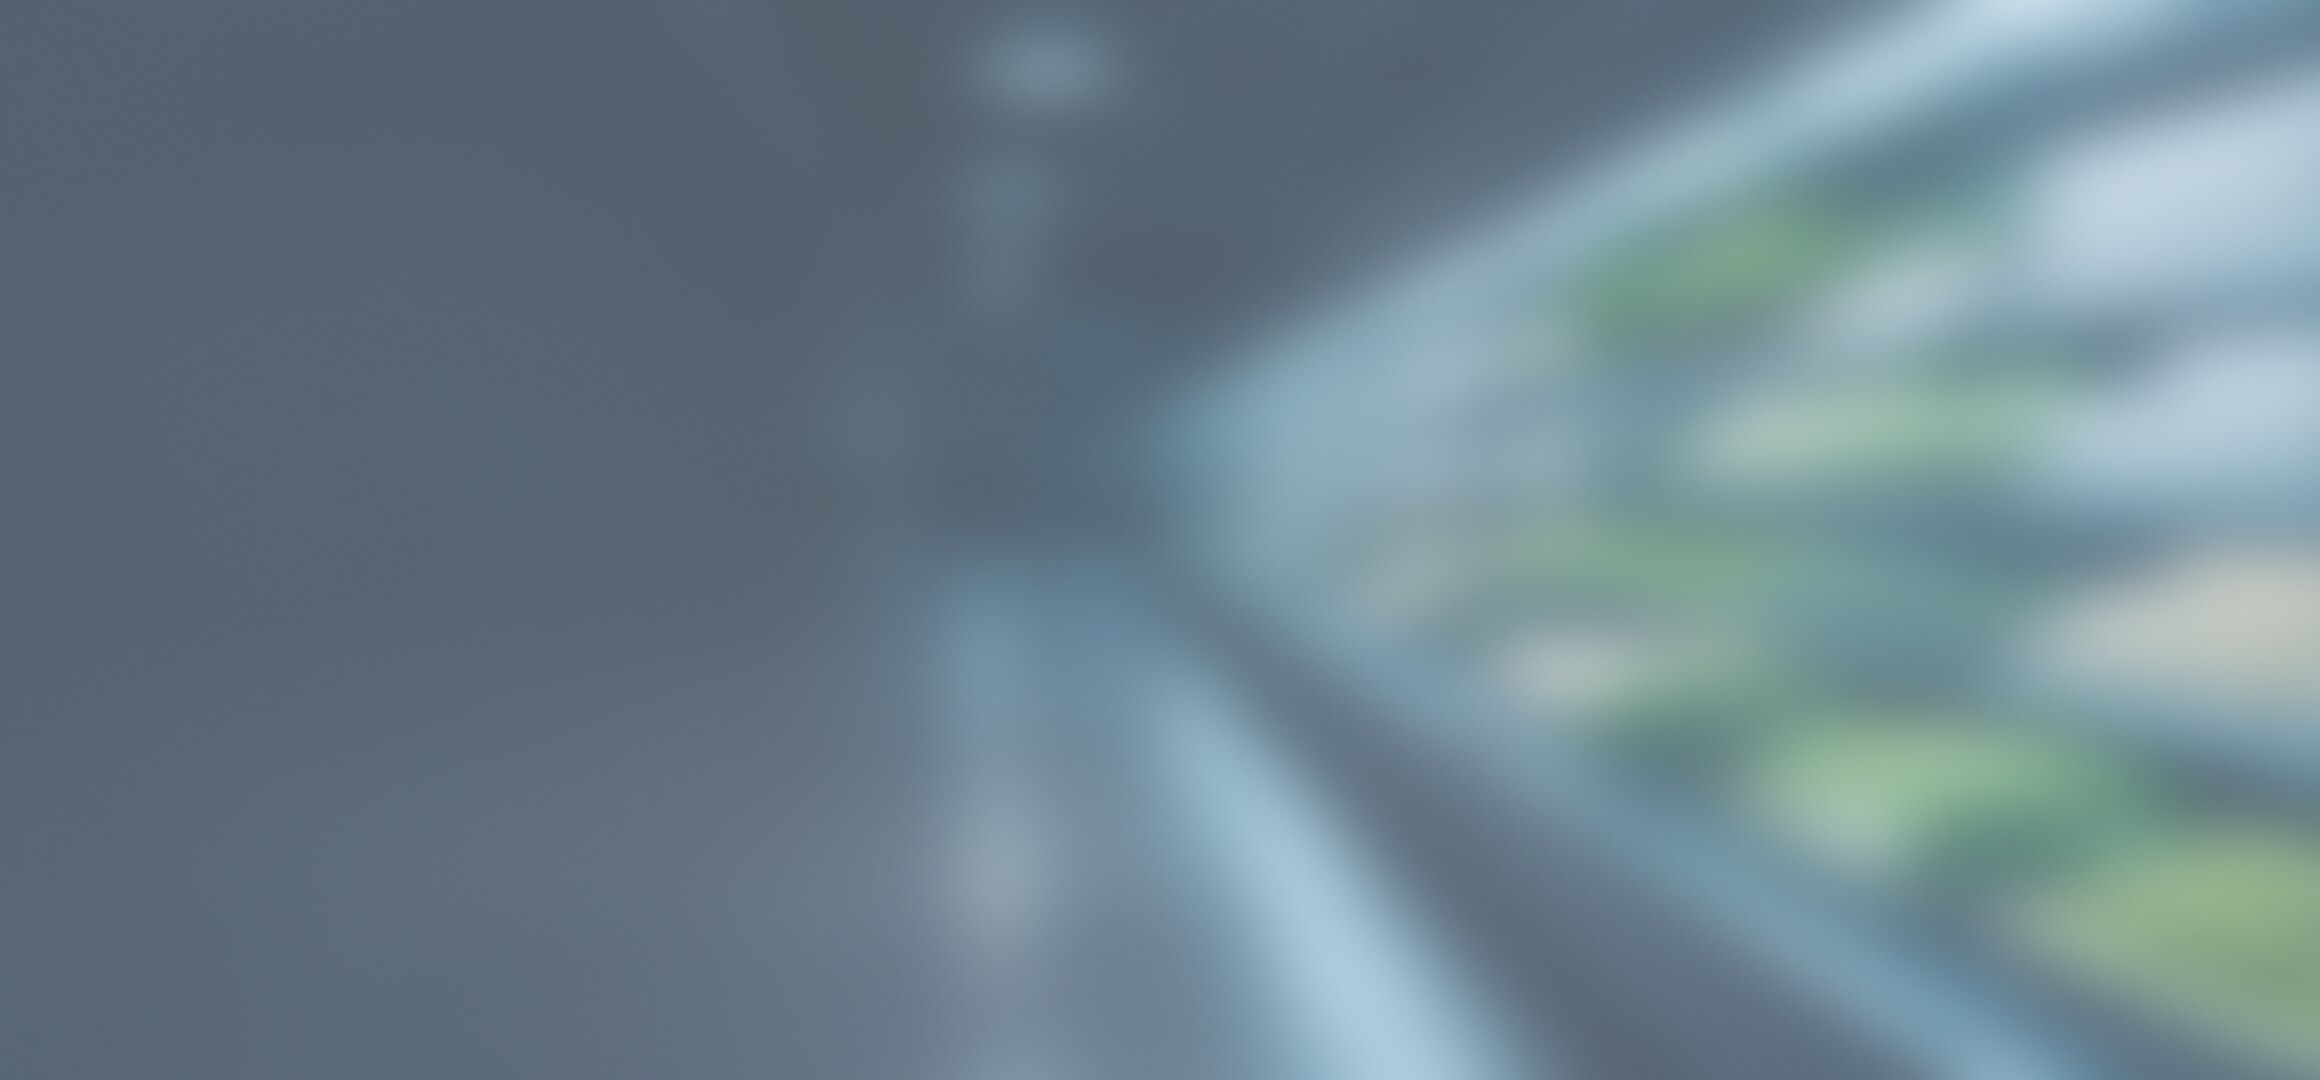
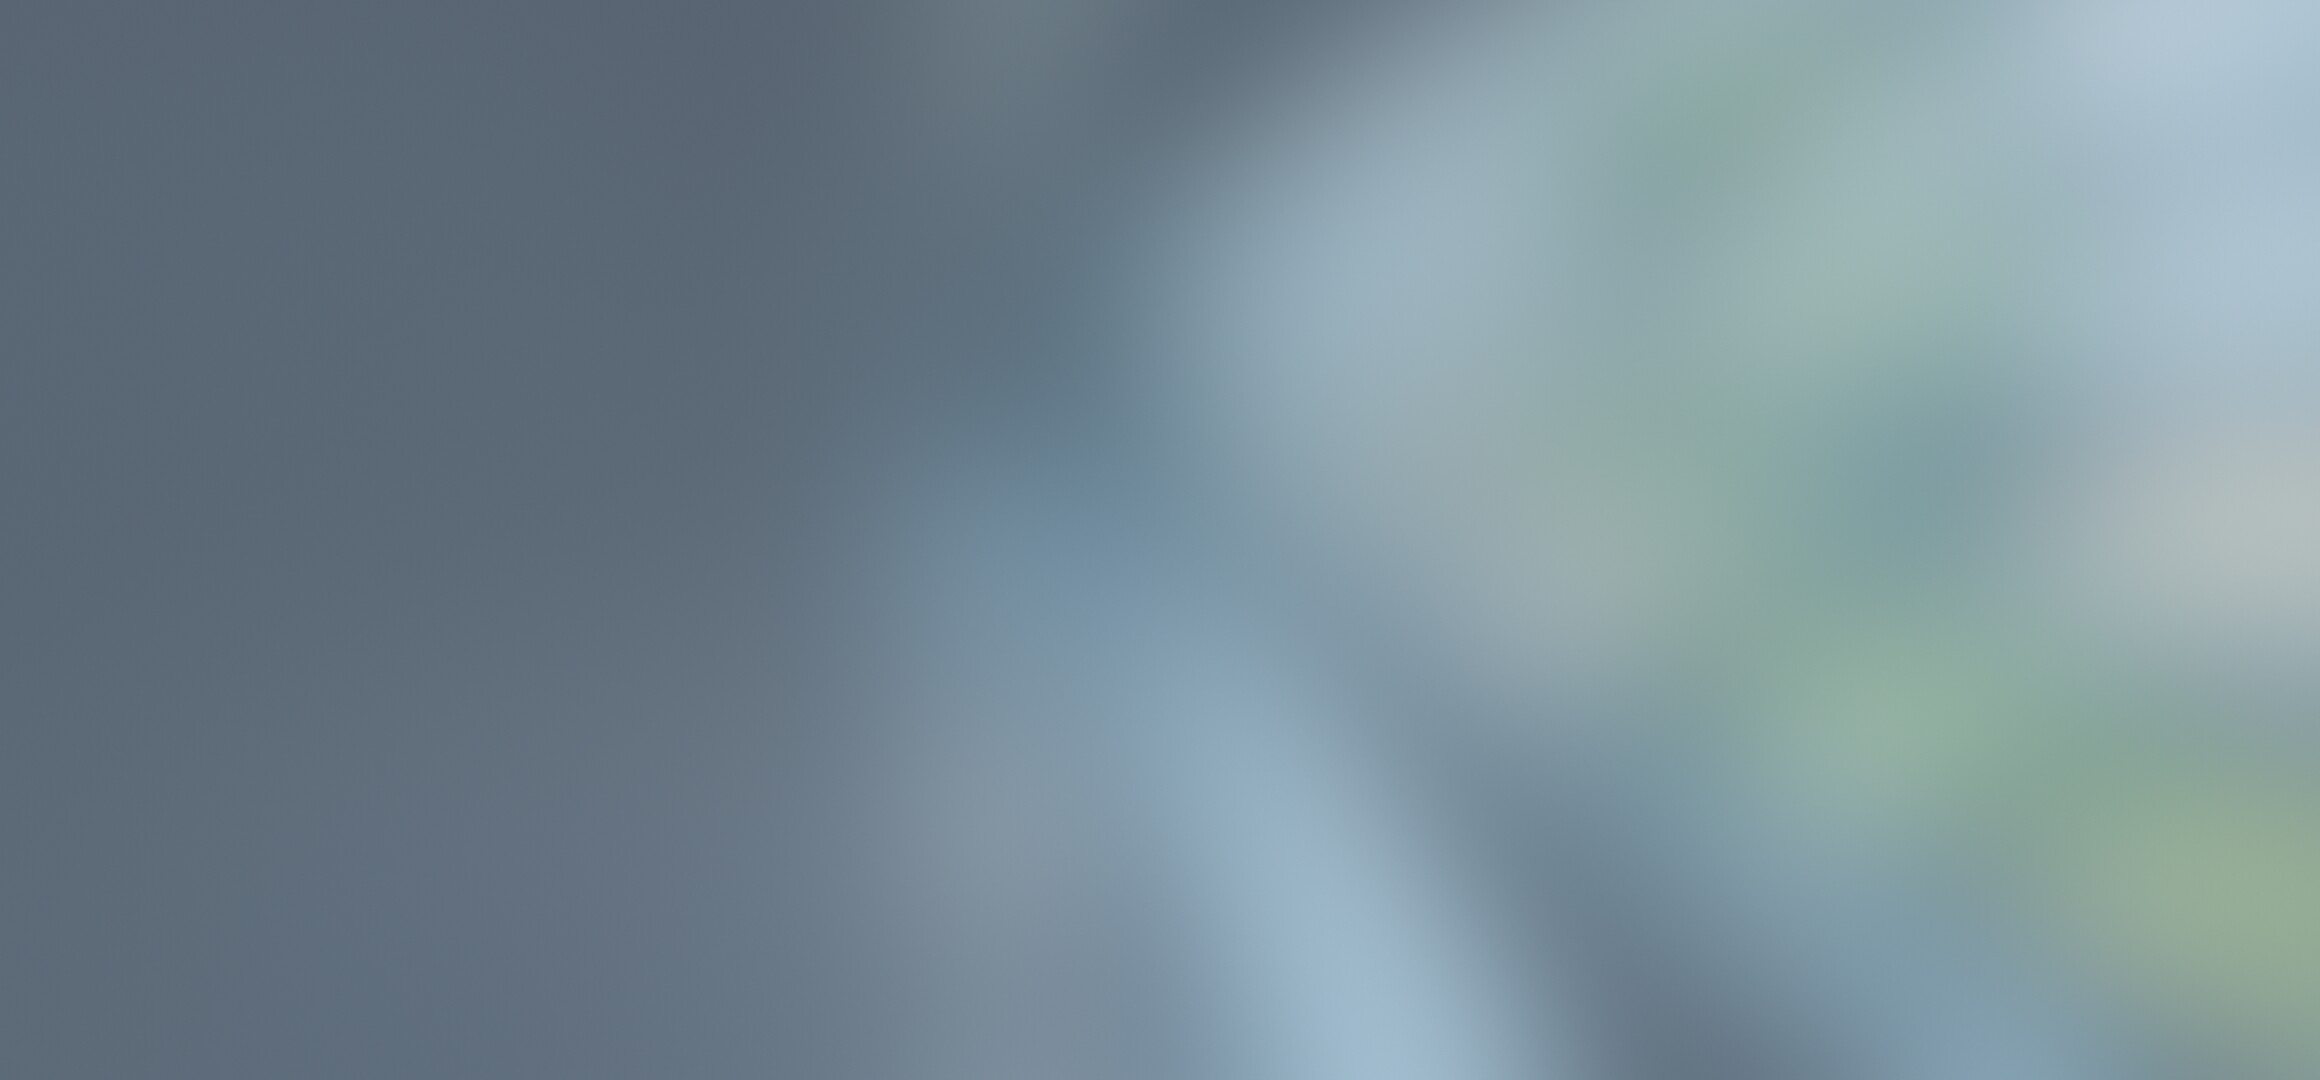
fix: smooth the blurred data-slide grounds, light the Kafka road with Flink tasks, and balance card heights

diff --git a/index.html b/index.html
@@ -84,14 +84,19 @@
     <h2 class="t-title measure" data-motion="line-rise" data-delay=".1">Veri dokuz ayrı yerde; bizden tek bir platform istendi</h2>
     <div class="grid-3 vaka" data-motion="stagger" data-child=".vk" data-gap=".2" data-delay=".5">
       <div class="vk kart"><p class="vk-ad">Şirket</p>
-        <p><span class="t-num" data-num="v.fabrika"></span> fabrika, <span class="t-num" data-num="v.hat"></span> üretim hattı</p><p><span class="t-num" data-num="v.arac"></span> soğutuculu araç</p><p><span class="t-num" data-num="v.temsilci"></span> satış temsilcisi</p>
-        <p><span class="t-num" data-num="v.nokta"></span> satış noktası, <span class="t-num" data-num="v.zincir"></span> zincir</p><p><span class="t-num" data-num="v.sku"></span> ürün (SKU)</p></div>
+        <div class="olcek">
+          <p><b data-num="v.fabrika"></b><span>fabrika</span></p><p><b data-num="v.hat"></b><span>üretim hattı</span></p>
+          <p><b data-num="v.arac"></b><span>soğutuculu araç</span></p><p><b data-num="v.temsilci"></b><span>satış temsilcisi</span></p>
+          <p><b data-num="v.nokta"></b><span>satış noktası</span></p><p><b data-num="v.zincir"></b><span>zincir</span></p>
+          <p><b data-num="v.sku"></b><span>ürün (SKU)</span></p>
+        </div></div>
       <div class="vk kart"><p class="vk-ad">Kısıtlar</p>
         <p>Ham veri en az <span class="t-num" data-num="dep.ham"></span> yıl, mali kayıt <span class="t-num" data-num="kv.mali"></span> yıl</p><p>Konum ve bakkal bilgisi KVKK kapsamında</p>
         <p>Sezonda günlük hacim <span class="t-num" data-raw>4</span> katı</p><p>Her zincirin ürün kodu farklı</p><p>Eski Hadoop kümesi ve veri ambarı</p></div>
       <div class="vk kart vk-ist"><p class="vk-ad">Bu denetimde</p>
         <p>Yönergenin istediği: <b>tek sayfalık mimari taslak</b> ve <b>hacim hesabı</b>.</p>
-        <p>Biz ilk üç katmanı ayrıntılı getirdik: <b>kaynak, alım, depolama</b>.</p></div>
+        <p>Biz ilk üç katmanı ayrıntılı getirdik: <b>kaynak, alım, depolama</b>.</p>
+        <div class="duraklar"><p><b>Raf</b> kaynak · Sefa</p><p><b>Yol</b> alım · Sabit</p><p><b>Depo</b> depolama · Zeynep</p></div></div>
     </div>
     <p class="src" data-raw>Kaynak: Vize ödevi yönergesi, Vaka A ve 5.3 Ara denetim.</p>
     <aside class="notes">KONUŞAN: Sefa. Vakamız TazeRota: süt ürünü, atıştırmalık ve içecek üreten, Türkiye geneline soğuk zincirle dağıtan bir hızlı tüketim şirketi. Ölçeği soldaki kartta: altı fabrika, bin yüz soğutuculu araç, iki bin dört yüz temsilci, yüz seksen beş bin satış noktası. Verisi <b>dokuz ayrı kaynakta</b>: fabrika sensörleri, araçlar, temsilcilerin el terminalleri, zincir marketlerin satış dosyaları... Ortadaki kartta kısıtlar: ham veri üç yıl saklanacak, kişisel veri var, sezonda hacim dört katına çıkıyor, her zincirin ürün kodu farklı. Yönerge bu denetimde <b>mimari taslak ve hacim hesabı</b> istiyor; biz ilk üç katmanı, kaynak, alım ve depolamayı ayrıntılı getirdik.</aside>
@@ -355,7 +360,7 @@
 
   <section class="slide bare foto" id="kafka" data-title="Kafka bölüm sayısı" data-export="image" data-duration="65" data-transition="fade" data-rota="alim">
     <div class="sahne k-kamera" data-motion="kamera" data-kamera-from="translate(0px, 20px) rotate(-7deg) scale(1.56)" data-dur="3">
-      <img class="havadan" src="medya/derece/kavsak.jpg" alt="">
+      <img class="havadan" src="medya/derece/kavsak-yol.jpg" alt="">
     </div>
     <div class="sis sis-ust"></div>
     <div class="sahne ust k-kamera" data-motion="kamera" data-kamera-from="translate(0px, 20px) rotate(-7deg) scale(1.56)" data-dur="3">
@@ -363,8 +368,8 @@
         <g class="k-seritler"></g><g class="k-lag"></g><g class="k-parca"></g><g class="k-gorevler"></g>
       </svg>
     </div>
-    <div class="k-flink" aria-hidden="true"></div>
-    <p class="k-flink-et">Flink</p>
+    <div class="k-flink" id="k-flink" aria-label="Flink görevleri"></div>
+    <p class="k-flink-et">Flink · <span data-num="k.gorev"></span> görev</p>
     <p class="istenen" data-raw><b>İstenen</b> G4: konu, bölüm sayısı, anahtar, saklama; bölüm sayısını tepe hızdan türet</p>
     <div class="sekme"><b>Muhammed Sabit Genan</b><span>Veri Mühendisi</span></div>
     <p class="t-kicker" data-motion="rise">Katman 2 · Kafka konuları</p>
@@ -584,6 +589,7 @@
         <p class="nk-tur">Anahtar-değer · erişilebilirlik</p><p class="nk-ad">Redis</p>
         <p class="nk-ana">Soğuk zincir alarmı için her aracın <b>son durumu</b>.</p>
         <p class="nk-k">Anahtar: <code>arac_id</code>. Erişilebilirlik öncelikli: çökerse durum Kafka'dan yeniden kurulur.</p>
+        <div class="zincir-c"><span>Kafka</span><i>akış</i><span>Flink</span><i>son durum</i><span>Redis</span><i>alarm</i><span>≤ <b data-num="h.i3"></b> sn</span></div>
       </div>
       <div class="nk kart" data-step="2">
         <p class="nk-tur">Çizge · tutarlılık</p><p class="nk-ad">Neo4j</p>
@@ -629,7 +635,7 @@
     <div class="sekme"><b>Zeynep Berfe Koçak</b><span>Analitik ve Yönetişim</span></div>
     <p class="t-kicker" data-motion="rise">Güvenlik ve KVKK</p>
     <h2 class="t-title" data-motion="line-rise" data-delay=".1">Kişisel veri ilk katmanda korunur</h2>
-    <div class="grid-3 guv" data-motion="stagger" data-child=".gk" data-gap=".18" data-delay=".5">
+    <div class="guv" data-motion="stagger" data-child=".gk" data-gap=".18" data-delay=".5">
       <div class="gk kart"><p class="gk-no" data-raw>Katman 1</p><p class="gk-ad">Kaynakta</p><p>Her cihaz sertifikayla tanınır; sertifikasız bağlanamaz.</p><svg class="yuz" viewBox="0 0 440 170" aria-label="Raf fotoğrafında yüzün bulanıklaştırılması">
           <defs><filter id="bulanik" x="-50%" y="-50%" width="200%" height="200%"><feGaussianBlur id="bulanik-d" stdDeviation="9"/></filter></defs>
           <rect class="raf-z" x="0" y="0" width="440" height="170" rx="10"/>

diff --git a/deck.local.css b/deck.local.css
@@ -129,10 +129,10 @@ body { font-variant-numeric: normal; }
 .sema .kt-alt { font: 400 22px var(--f-body); fill: var(--ink-2); }
 .sema .ok { fill: none; stroke: var(--ink-2); stroke-width: 2; }
 .sema .uc { fill: var(--ink-2); }
-.sema .ok-et { font: 700 20px var(--f-body); fill: var(--ink-2); paint-order: stroke; stroke: var(--paper); stroke-width: 7px; }
+.sema .ok-et { font: 700 22px var(--f-body); fill: var(--ink-2); paint-order: stroke; stroke: var(--paper); stroke-width: 7px; }
 .sema .ok-k { fill: none; stroke: var(--pen); stroke-width: 16; stroke-opacity: .45; stroke-linecap: round; }
 .sema .uc-k { fill: var(--pen); fill-opacity: .85; }
-.sema .sutun { font: 700 20px var(--f-body); fill: var(--ink-2); letter-spacing: .14em; text-transform: uppercase; }
+.sema .sutun { font: 700 22px var(--f-body); fill: var(--ink-2); letter-spacing: .14em; text-transform: uppercase; }
 .sema .parcacik circle { fill: var(--pen); }
 .sema .parcacik rect { fill: var(--steel); }
 .sema .parcacik .tepe { fill: var(--bad); }
@@ -483,9 +483,10 @@ html.deck-static .isaret .halka, html.deck-render .isaret .halka { animation: no
 #k-yol .k-parca circle.tepe { fill: #f2b24c; }
 #k-yol .gorev { fill: #5cc8c9; stroke: #0e1a2b; stroke-width: .8; }
 #kafka.k-durdu #k-yol .gorev { fill: #8497ab; }
-.k-flink { position: absolute; left: 1716px; top: 486px; width: 70px; height: 156px; border: 3px solid #f4f7f9; border-radius: 14px;
+.k-flink { position: absolute; left: 1708px; top: 486px; width: 86px; height: 156px; border: 3px solid #f4f7f9; border-radius: 14px;
+  background: rgba(14, 26, 43, .55); display: flex; flex-direction: column; justify-content: center; gap: 4px; padding: 0 12px;
   box-shadow: 0 0 0 1px rgba(14, 26, 43, .35), 0 8px 22px rgba(14, 26, 43, .35); }
-.k-flink-et { position: absolute; left: 1650px; top: 652px; width: 136px; text-align: right; font: 700 26px/1 var(--f-body); color: #f4f7f9;
+.k-flink-et { position: absolute; left: 1560px; top: 656px; width: 234px; text-align: right; font: 700 26px/1 var(--f-body); color: #f4f7f9;
   text-shadow: 0 1px 8px rgba(14, 26, 43, .8); }
 .k-konu { left: var(--pad-l); top: 676px; }
 .k-durum { left: 760px; top: 676px; min-width: 480px; padding: 12px 20px 14px; border-top-color: var(--bad); }
@@ -522,3 +523,36 @@ html.deck-static .isaret .halka, html.deck-render .isaret .halka { animation: no
 @media print {
   .slide.foto .cam, .slide.foto .etiket, .slide.foto .raf-et, .slide.foto .rota { background: rgba(244, 247, 249, .95) !important; }
 }
+
+/* Flink görevleri (kafka-sahne.js) */
+.k-flink i { display: block; height: 10px; border-radius: 3px; background: #5cc8c9; }
+#kafka.k-durdu .k-flink i { background: #8497ab; }
+
+/* Zeminli slaytlar: üstte koyu-açık ayrımı yerine düzgün tek bir sis örtüsü */
+.slide.zeminli > .sis-ust { background: linear-gradient(180deg, rgba(240, 244, 247, .78) 0, rgba(240, 244, 247, .62) 340px, rgba(240, 244, 247, .5) 100%); }
+.slide.zeminli > .sis-alt { display: none; }
+
+/* Vaka: ölçek rakamları, duraklar */
+.vaka { align-items: start; }
+.olcek { display: grid; grid-template-columns: auto 1fr; gap: 8px 16px; align-items: baseline; }
+.olcek p { display: contents; }
+.olcek b { font: 400 40px/1.05 var(--f-figure); color: var(--ink); text-align: right; }
+.olcek span { font: 400 27px/1.2 var(--f-body); color: var(--ink-2); }
+.duraklar { display: flex; flex-direction: column; gap: 10px; margin-top: 8px; padding-top: 18px; border-top: 1.5px solid rgba(154, 90, 0, .25); }
+.duraklar p { position: relative; padding-left: 26px; font: 400 27px/1.2 var(--f-body); color: var(--ink-2); }
+.duraklar p::before { content: ""; position: absolute; left: 0; top: 10px; width: 12px; height: 12px; border-radius: 50%; background: var(--pen); }
+.duraklar b { color: var(--ink); margin-right: 6px; }
+
+/* NoSQL: kartlar içeriğe göre, Redis'te operasyonel yol */
+.nosql { align-items: start; }
+
+/* Güvenlik: sol kart (kaynak, yüz bulanıklaştırma) uzun; alım ve depolama sağda üst üste */
+.guv { display: grid; grid-template-columns: 1fr 1fr; grid-template-rows: auto auto; gap: 24px 32px; margin-top: 36px; }
+.guv > .gk:first-child { grid-row: span 2; }
+.guv .yuz { max-width: 560px; }
+
+/* Mimari şema: kart biraz küçülür, yol notu şemanın altında kendi satırında */
+#sema .sema { width: 1542px; height: 527px; }
+#sema .sema-yol { top: 862px; bottom: auto; left: 140px; right: auto; padding: 6px 18px; font-size: 27px; }
+#sema .secmedik.sabit { bottom: 94px; }
+.zincir-c span b { font: inherit; }

diff --git a/kafka-sahne.js b/kafka-sahne.js
@@ -41,7 +41,20 @@
     mk('rect', { x: uc[0] + 3, y: uc[1] - 2.4, width: 4.8, height: 4.8, rx: 1, class: 'gorev' }, gGorev);
     seritler.push({ yol, lag, L, w: 0 });
   }
-  if (Deck.mode !== 'live') return;
+  /* Flink görevleri: yolun sonunda k.gorev kadar işaret (adım 4'te durur, 5'te çalışır) */
+  const kutu = document.getElementById('k-flink');
+  if (kutu) for (let i = 0; i < D.val('k.gorev'); i++) { const g = document.createElement('i'); kutu.appendChild(g); }
+  if (Deck.mode !== 'live') {   // statik, PDF, PPTX: şeritlerde donmuş ışıklar (tohumlu, her seferinde aynı)
+    const gK = svg.querySelector('.k-parca');
+    seritler.forEach((s, i) => {
+      for (let j = 0; j < 5; j++) {
+        const u = ((Math.sin((i + 1) * 12.9898 + (j + 1) * 78.233) * 43758.5453) % 1 + 1) % 1;
+        const q = s.yol.getPointAtLength(s.L * (j + u) / 5.4);
+        mk('circle', { cx: q.x.toFixed(1), cy: q.y.toFixed(1), r: 2.9 }, gK);
+      }
+    });
+    return;
+  }
 
   /* ------------------------------------------------ akış (yalnız canlı) */
   const katman = svg.querySelector('.k-parca');
